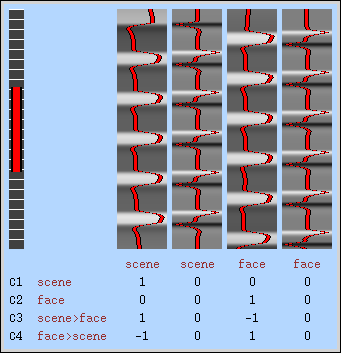
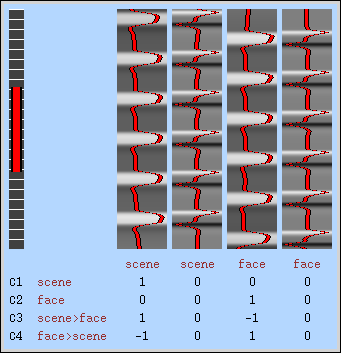
updated tutorial to set design with 3-column format files rather than the wizard and square waves

diff --git a/doc/tutorial/tutorial.rst b/doc/tutorial/tutorial.rst
@@ -179,7 +179,7 @@ To set the parameters of the analysis, you'll need to know the experimental desi
 
 Now launch FEAT::
 
-  $ feat
+  $ Feat &
 
 It opens to the Data tab. 
 
@@ -209,21 +209,34 @@ The Stats tab
 
 Check "Add motion parameters to model". Now we must use the description of the experimental design from *protocol.txt* to set up regressors for our GLM. *protocol.txt* tells us that blocks consisted of 12 trials, each 1.5s long, with 12s rest between blocks, and 6s rest at the start to let the scanner settle down. That 6s at the start was taken care of in the Data tab, so we have a design that looks like Scene, rest, Face, rest, Scene, rest, ...
 
-Click the "Model setup wizard" button. It has an option for "rArBrArB...", which isn't quite what we want, but close. Click that button, and set the rest period to 12s, A period to 18s (12 trials * 1.5s each), and B period to 18s. Click "Process" and close the graph that shows up. Now click "Full model setup", so we can eliminate that extra 12s rest at the start that the Model setup wizard gave us.
+We will specify this design precisely using text files in FEAT's 3-column format: we make 1 text file per regressor, each with one line per period of time belonging to that regressor. Each line has 3 numbers, separated by whitespace. The first number indicates the onset time in seconds of the period. The second number indicates the duration of the period. The third number indicates the height of the regressor during the period; always set this to 1 unless you know what you're doing. See `FEAT's documentation`_ for more details.
 
-First, set EV name to "scene". FSL calls regressors EV's, short for Explanatory Variables. The wizard set the regressor shape to Square, which is right. Skip is 0. Off period is 42s, because after the wave is on, there are 12s of rest, then 18s for the other wave to go on (other block type), then another 12s of rest. "On period" is 18s, like we set it to be. Hover over the "Phase" text, and FEAT will explain that the wave starts with a full off period (42s in our case), and "Phase" can be used to adjust this; FEAT set it to 30s so that there was a 12s rest period before this wave comes on, but we don't want that, so set Phase to 42 to eliminate the off period at the start. Leave "Stop after" at -1, so the wave continues as long as necessary. because we don't believe the fMRI signal will actually look like a square wave, we convolve it with a function that's intended to model the hemodynamic response; change Convolution to Double-Gamma HRF. Now we must set up the face regressor. Click tab 2.
+.. _FEAT's documentation: http://www.fmrib.ox.ac.uk/fsl/feat5/detail.html#stats
+
+In your own projects, you should make these files automatically based on the code that runs your experiment. For that reason, I've generated the 3-column files for you. Make a directory to put them in, then download the files::
+
+  $ mkdir design
+  $ curl http://github.com/mason-work/neuropipe/raw/master/doc/tutorial/scene.txt >design/scene.txt
+  $ curl http://github.com/mason-work/neuropipe/raw/master/doc/tutorial/face.txt >design/face.txt
+
+Click the "Full model setup" button. Set EV name to "scene". FSL calls regressors EV's, short for Explanatory Variables. Set "Basic shape" to "Custom (3 column format)" and select *design/scene.txt*. That file on its own describes a square wave, but to account for the shape of the BOLD response, we convolve it with another function. Set "Convolution" to "Double-Gamma HRF". Now we set up the face regressor. Set "Number of original EVs" to 2, then click tab 2.
 
 .. image:: http://github.com/mason-work/neuropipe/raw/master/doc/tutorial/feat-stats-ev1.png
 
-Change EV name to "face". Look at the Phase setting. FEAT set it to 0, which means that there will be a full 42s of rest before this wave gets going. But, because we have no rest at the start, there will only be 18s for the scene wave + 12s rest = 30s before we want the face wave to start. So adjust Phase to be 12. Change Convolution to Double-Gamma HRF, like we did for the scene regressor.
+Set EV name to "face". Set "Basic shape" to "Custom (3 column format)" and select *design/face.txt*. Change Convolution to Double-Gamma HRF, like we did for the scene regressor.
 
 .. image:: http://github.com/mason-work/neuropipe/raw/master/doc/tutorial/feat-stats-ev2.png
 
-Now go to the Contrasts & F-tests tab. We don't care to run any F-tests, so decrease "F-tests" from 1 to 0. FEAT already has the contrasts set up that we'd want, they're just named differently than we want. In each of the Title fields, replace "A" with "scene" and "B" with "face".
+Now go to the Contrasts & F-tests tab. Increase "Contrasts" to 4. We'll make 1 contrast to show the main effect of the face regressor, one for the scene regressor, 1 to show where the scene regressor is greater than the face regressor, and one to show where the face regressor is greater:
+
+* Set the 1st row's title to "scene", it's "EV1" value to 1, and it's "EV2" value to 0.
+* Set the 2nd row's title to "face", it's "EV1" value to 0, and it's "EV2" value to 1.
+* Set the 3rd row's title to "scene>face", it's "EV1" value to 1, and it's "EV2" value to -1.
+* Set the 4th row's title to "face>scene", it's "EV1" value to -1, and it's "EV2" value to 1.
 
 .. image:: http://github.com/mason-work/neuropipe/raw/master/doc/tutorial/feat-stats-contrasts-and-f-tests.png
 
-Close that window, and FEAT should show you a graph of your model. If it doesn't look like the one below, make sure you followed the instructions correctly.
+Close that window, and FEAT should show you a graph of your model. From left to right, the If it doesn't look like the one below, make sure you followed the instructions correctly.
 
 .. image:: http://github.com/mason-work/neuropipe/raw/master/doc/tutorial/feat-model-graph.png
 
